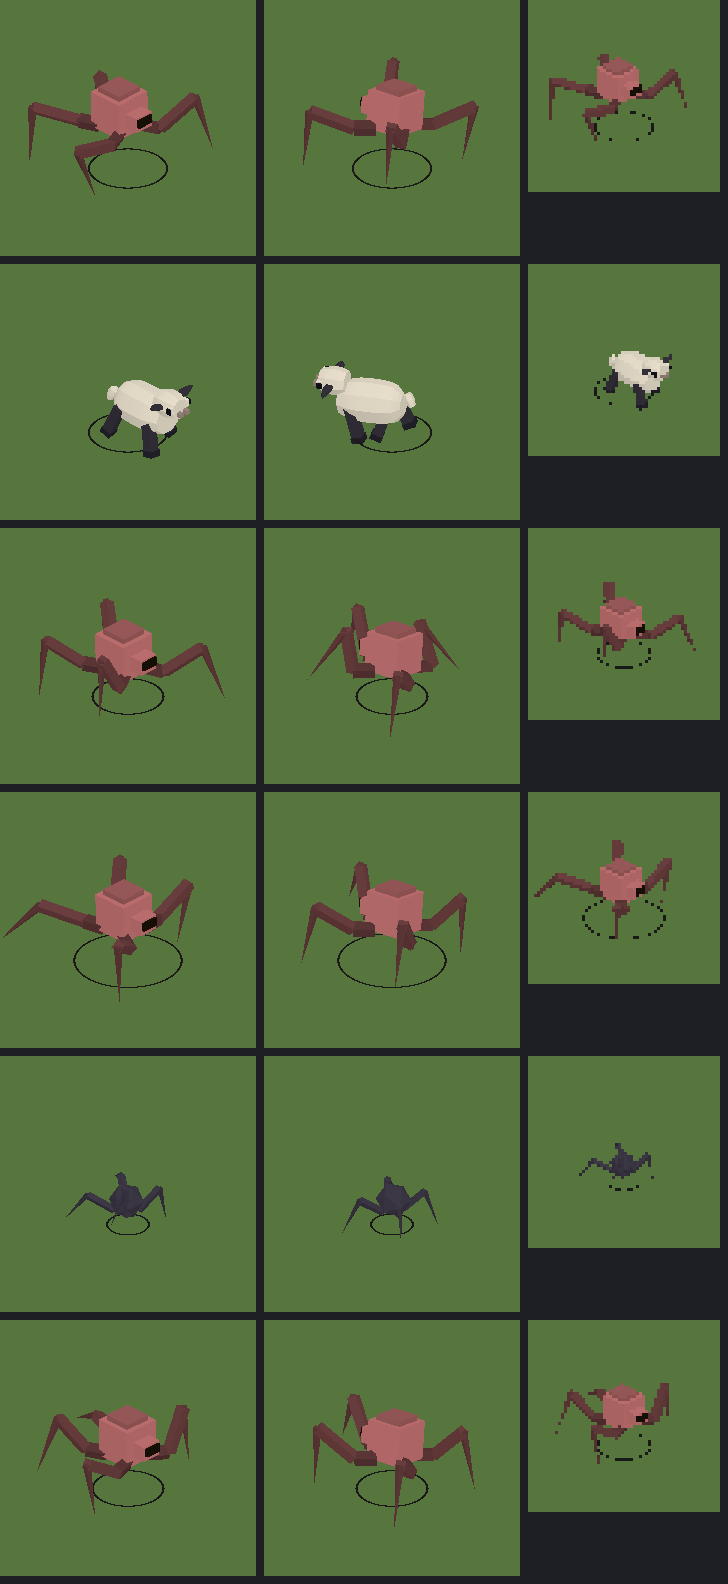
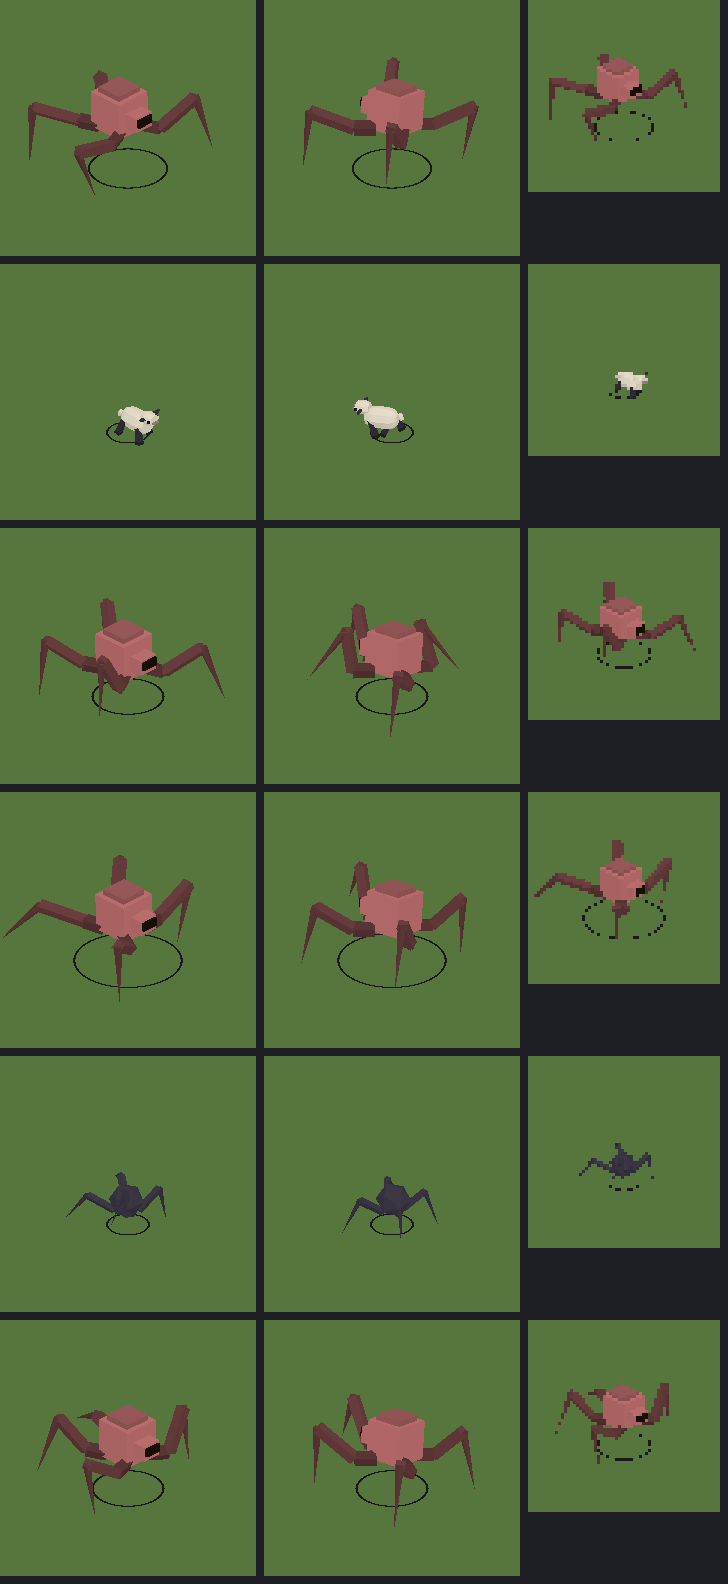
Draw the sheep at half size, and halve its collider with it
A look change with one thing attached to it that is easy to miss twice.

`bodyScale` 0.95 -> 0.475 is the change that was asked for. The other two
are what stop it being wrong:

  * `radius` in the monster table halves too, 22 -> 12. The ring is what
    the cursor picks a body by and what the crowd solves against, so a
    body drawn at half its collider is a lamb standing in the middle of a
    grazer-sized target. 12 is the small spider's, so it costs no nav
    grid -- `ROUTING_RADII` builds one per distinct radius at boot.

  * `strideScale` 1.1 -> 2.15. The gait is driven by how fast the body is
    actually travelling, so a leg at half its length and an unchanged 62
    move speed takes the same number of steps to cover twice its own
    length, which is a skate rather than a walk. Roughly `1 / bodyScale`
    gives the ground back.

The sizing test needed rewriting rather than renumbering, and it is the
part worth reading. It compared the body's *width* to the radius, which
quietly assumed a body about as wide as it is long -- true of the two
uprights it was written against and false of a quadruped 57 units long
and 26 across, where either dimension alone declares the ring wrong. It
now measures the resolved bounds and states the rule the ring actually
has to satisfy: cover the girth, so there is no ground inside the model
that is outside the target, and stay shorter than the animal, so nobody
hits a sheep by aiming at grass.
[…]

Changed region(s): [[0.4231, 0.2165, 0.5742, 0.2784], [0.1209, 0.2165, 0.272, 0.3093], [0.8159, 0.2165, 0.9368, 0.2784]]

diff --git a/src/render/iso3d/world/monster-critter.ts b/src/render/iso3d/world/monster-critter.ts
@@ -40,27 +40,28 @@ export interface MonsterCritter {
 }
 
 /**
- * The sheep, at very close to its authored size.
+ * The sheep, drawn at half the size it is authored.
  *
- * It is a quadruped, so the number to check it against is not the player's
- * height: the species stands 42 units at the shoulder and is 26 across the
- * barrel, against a sim radius of 22, so `0.95` puts the drawn fleece just
- * inside the ring the cursor picks it by. That matters more here than on an
- * upright body, because a sheep's whole read is its mass -- scaled down it
- * stops being the heavy thing in the field, and scaled up it overhangs the ring
- * the player is aiming at.
+ * The species stands 42 units at the shoulder and is 57 nose to tail, which is
+ * a full-grown ewe next to a player; `0.475` makes it a small one, about a
+ * third of the player's drawn height. That is a look rather than a constraint,
+ * and the constraint it has to stay inside is the sim's: `radius` in the
+ * monster table halves with it, because the ring is what the cursor picks the
+ * body by and a body drawn at half its collider is a target with a gap around
+ * it.
  *
- * It also lands the animal at about 70% of the player's drawn height, which is
- * roughly a real sheep against a real person, and is the check worth making:
- * a quadruped is easy to author at a size that looks right alone and reads as a
- * dog or a cow the moment somebody stands next to it.
- *
- * `strideScale` is barely over 1 because almost nothing has been taken off the
- * leg -- there is little to give back.
+ * `strideScale` is the other half of the same change, and the one that is easy
+ * to forget. The gait is driven by how fast the body is actually travelling, so
+ * a leg scaled to half its length at an unchanged 62 move speed takes the same
+ * number of steps to cover twice its own length -- which is a skate, not a
+ * walk. Roughly `1 / bodyScale` gives the ground back, and
+ * `monster-critter.test.ts` holds the pair to it -- 2.15 rather than the 2.105
+ * that is exactly `1 / 0.475`, so the legs are covering fractionally more than
+ * the body needs rather than fractionally less.
  */
 const SHEEP: MonsterCritter = {
   species: 'sheep',
-  figure: { bodyScale: 0.95, strideScale: 1.1 },
+  figure: { bodyScale: 0.475, strideScale: 2.15 },
 };
 
 // A Map rather than a record, for the reason `monsterLookFor` is one: a type id

diff --git a/src/render/iso3d/world/monster-critter.test.ts b/src/render/iso3d/world/monster-critter.test.ts
@@ -1,7 +1,7 @@
 import { describe, expect, it } from 'vitest';
 import { monsterCritterFor, monsterCritterIds } from './monster-critter.js';
 import { ALL_MONSTERS, monsterById } from '../../../server/data/monsters.js';
-import { CRITTERS, isCritterId } from '../../critters/index.js';
+import { CRITTERS, isCritterId, speciesBounds } from '../../critters/index.js';
 
 /**
  * The table that says which monsters are animals rather than machines, and the
@@ -60,15 +60,23 @@ describe('the sheep', () => {
 
   it('is drawn at about the size the server collides it at', () => {
     // The species is authored at its own scale and the sim's radius is the one
-    // that has to be matched -- a body drawn much smaller than its selection
-    // ring is a cursor target with a gap in the middle of it, and one drawn
-    // larger overhangs the ring the player is aiming at.
+    // that has to be matched. What "matched" means is not one number, though,
+    // and a quadruped is where that stops being a detail: this body is 57 long
+    // and 26 across, so comparing the ring to either dimension alone declares it
+    // wrong. The ring has to **cover the girth** -- otherwise there is ground
+    // inside the model that is outside the target -- and must not be **longer
+    // than the animal**, or a player aiming at empty grass hits a sheep.
+    //
+    // Measured off the resolved bounds rather than off one part, because the
+    // longest thing on this species is the body and the furthest forward is the
+    // nose, and nose-to-tail is the number that matters.
     const scale = row?.figure.bodyScale ?? 0;
-    const species = CRITTERS['sheep'];
+    const bounds = speciesBounds(CRITTERS['sheep']);
     const radius = monsterById('sheep')?.radius ?? 0;
-    const halfWidth = Math.max(...species.parts.map((p) => p.size[2])) * 0.5 * scale;
-    expect(halfWidth).toBeGreaterThan(radius * 0.5);
-    expect(halfWidth).toBeLessThanOrEqual(radius);
+    const halfGirth = (bounds.maxZ - bounds.minZ) * 0.5 * scale;
+    const halfLength = (bounds.maxX - bounds.minX) * 0.5 * scale;
+    expect(radius, 'ring covers the body it is drawn round').toBeGreaterThanOrEqual(halfGirth);
+    expect(radius, 'ring is not bigger than the animal').toBeLessThanOrEqual(halfLength);
   });
 
   it('gives back the ground a scaled-down leg stopped covering', () => {

diff --git a/src/server/data/monsters.ts b/src/server/data/monsters.ts
@@ -258,13 +258,17 @@ const AUTHORED: readonly AuthoredMonster[] = [
     // point: it is the cheapest kill in the arena, it grants the least
     // experience, and it is the only row whose drop is a certainty.
     //
-    // `radius` is 22 rather than a number picked for a sheep, deliberately:
+    // `radius` is 12 rather than a number picked for a sheep, deliberately:
     // `ROUTING_RADII` builds one nav grid per *distinct* radius at boot, so a
     // body that fits an existing one is free and a body half a unit off costs a
-    // whole grid. 22 is the grazer's, and a sheep is about a grazer's size.
+    // whole grid. 12 is the small spider's, and it happens to be right here --
+    // the sheep is drawn small, and a 24-unit ring sits between the girth of
+    // the body and its nose-to-tail length, which is the band a quadruped's
+    // collider wants to be in. Halving the drawn size without halving this
+    // would leave a lamb standing in the middle of a grazer-sized target.
     id: 'sheep',
     name: 'Sheep',
-    radius: 22,
+    radius: 12,
     // Less than the grazer's 8. It runs, it does not fight, and killing one is
     // worth doing for the wool rather than for the level.
     experience: 5,
